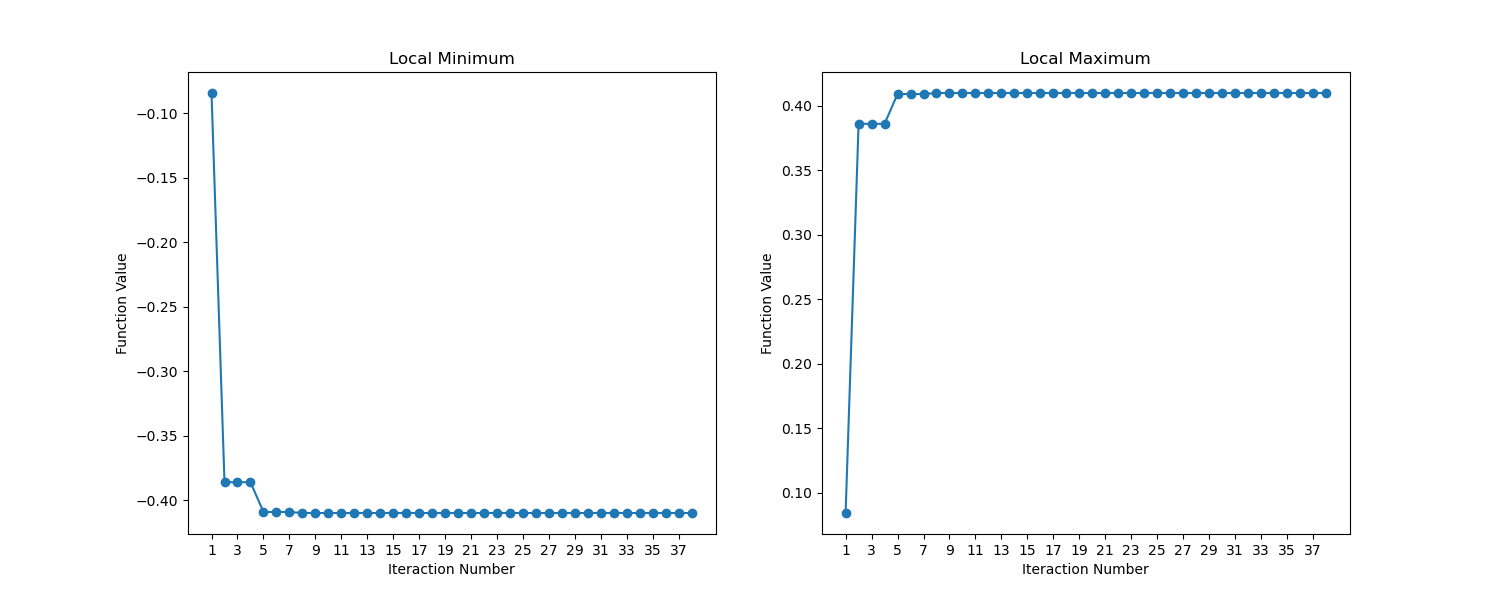
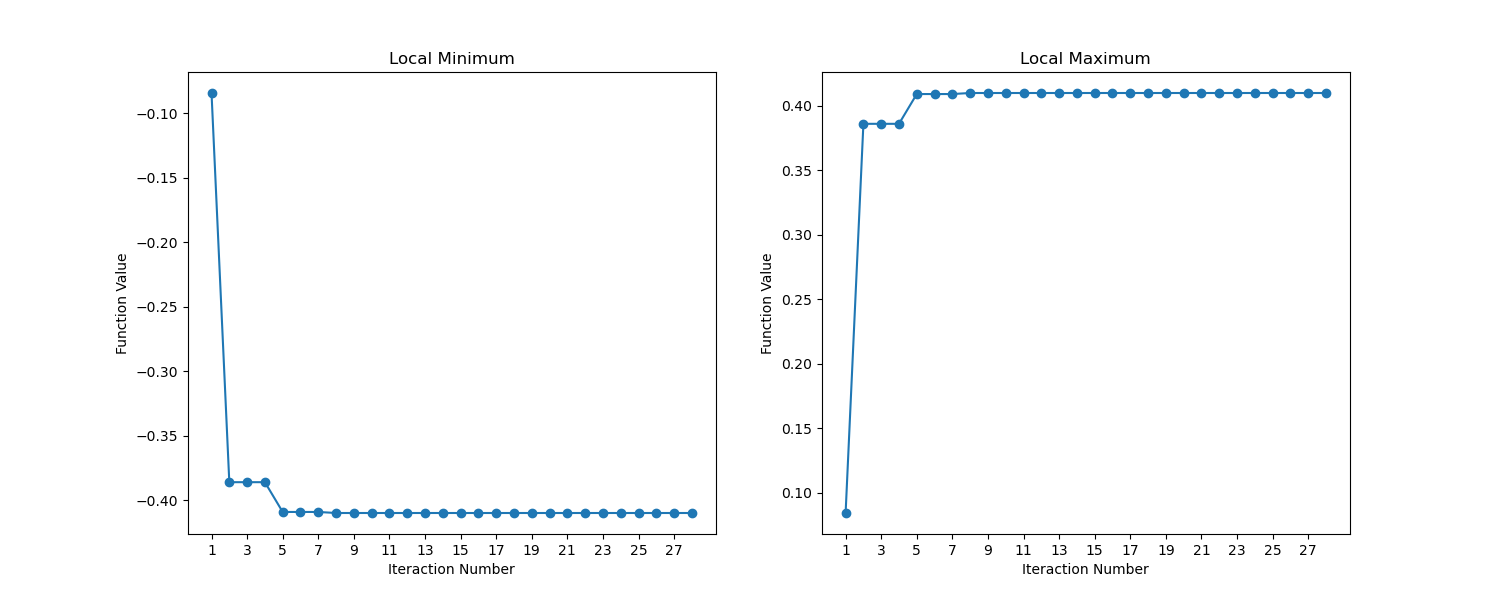
finish v1

diff --git a/python/Optimum_Design/GoldSearch.py b/python/Optimum_Design/GoldSearch.py
@@ -1,6 +1,6 @@
 import numpy as np
 
-def goldSearch(f, a, b, findMin = True, tol = 10 ** -7):  
+def goldSearch(f, a, b, findMin = True, tol = 10 ** -5):  
 
     R = (np.sqrt(5) - 1) / 2
     C = 1 - R
